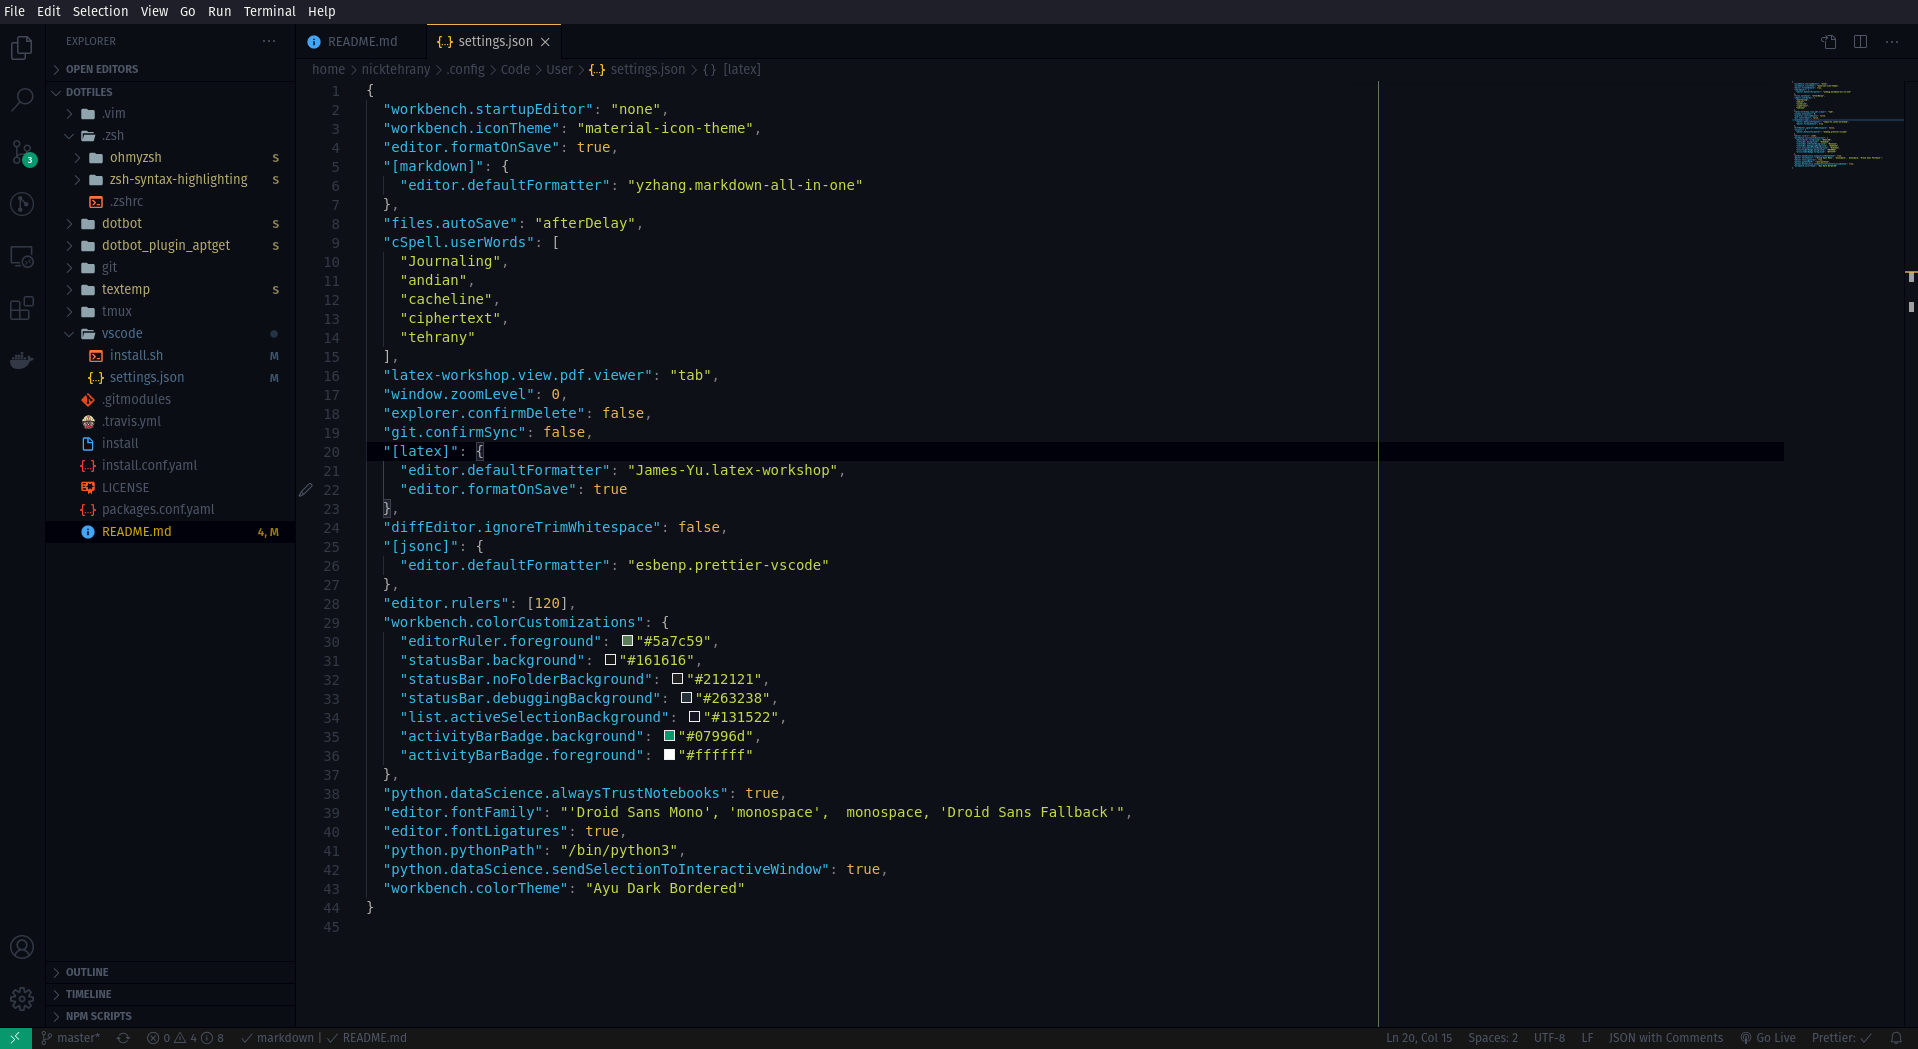
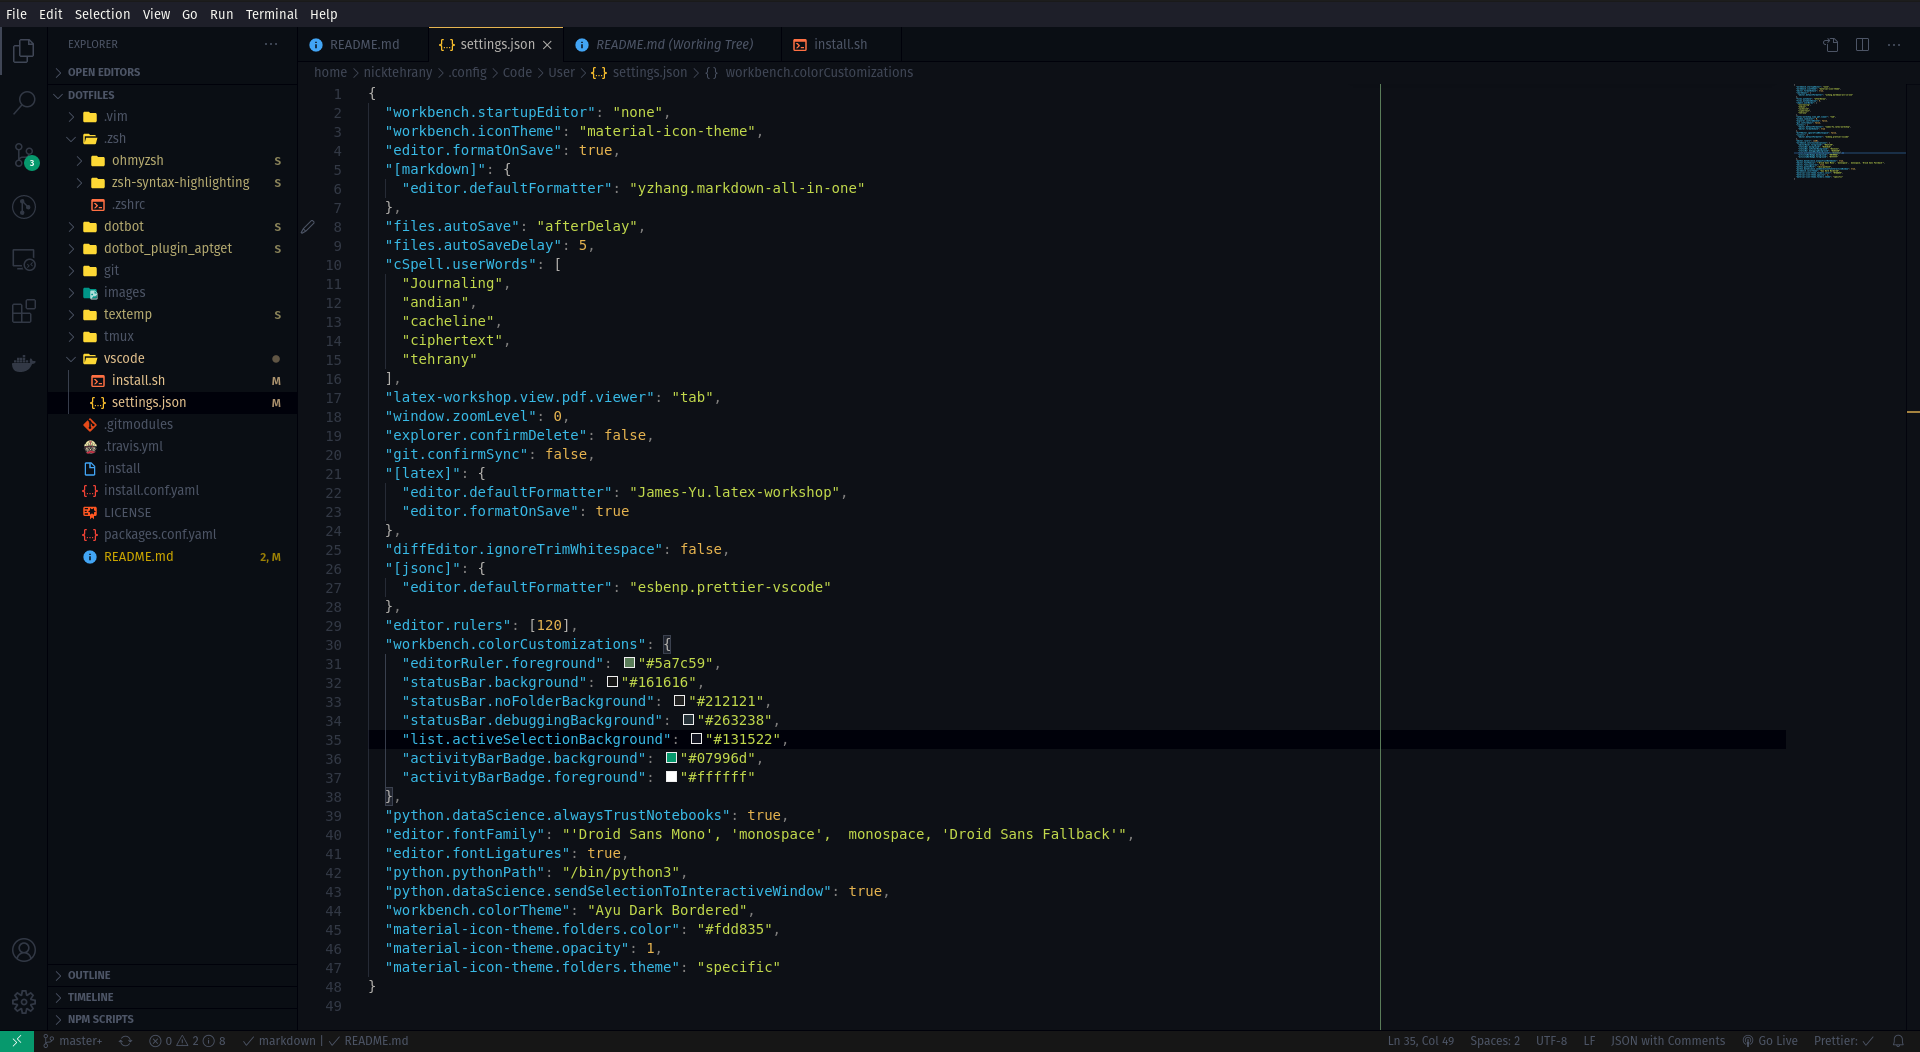
Updated vscode color scheme

diff --git a/README.md b/README.md
@@ -32,7 +32,7 @@ If you only want to relink config files or run all commands except shell (in the
 My vscode is still a work in progress as far as the right color scheme goes. Thus far it looks as follows,
 
 ![VSCode](images/vscode.png)
-If you want to play around with different colors, adjust workbench.colorCustomizations in the [settings.json](https://github.com/nicktehrany/dotfiles/blob/master/vscode/settings.json) file, and possible add more of the vscode color variables you can set. A nice compiled list of
+If you want to play around with different colors, adjust workbench.colorCustomizations in the [settings.json](https://github.com/nicktehrany/dotfiles/blob/master/vscode/settings.json) file, and possibly add more of the vscode color variables you can set. A nicely compiled list of
 these can be found [here](https://gist.github.com/lol-russo/1c7a0b958be4b9434c5a120f24d5e7c3).
 
 ## Credits
